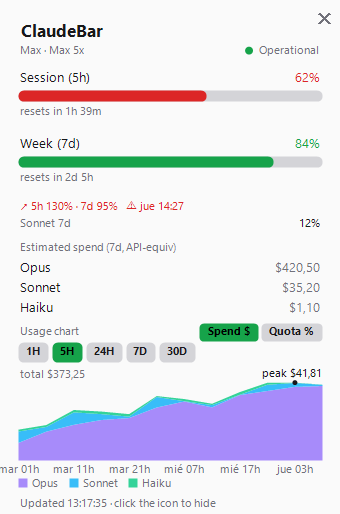
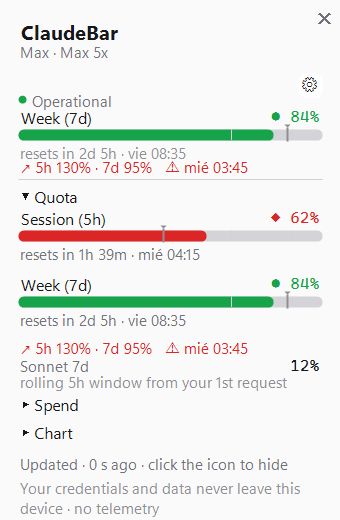
chore(assets): capturas + GIFs de microinteracciones (F3) para README/release
Nuevo modo `--render-gif` (como `--render-demo`, con datos sintéticos) que vuelca
secuencias de fotogramas numerados barriendo el RenderMotionOverride determinista por
la línea de tiempo de la animación; ffmpeg las monta en GIFs con paleta de calidad.

Assets en assets/:
- f3-apertura.gif     — fade + entrada escalonada + tween de barras/números (0→440 ms)
- f3-mascota.gif      — vida de la mascota Processing: spinner braille + parpadeo + verbo (loop 2.7 s)
- f3-hover.gif        — realce de hover apareciendo sobre la sección de Cuota
- f3-celebracion.gif  — destello "✓ quota renewed" + humor Happy
- dashboard-full.png  — panel completo con mascota grande + secciones desplegadas
- dashboard-{dark,light,cli}.png + tray-icons.png refrescados al diseño F3

diff --git a/Program.cs b/Program.cs
@@ -45,6 +45,13 @@ internal static class Program
             return;
         }
 
+        if (args.Contains("--render-gif"))
+        {
+            ApplicationConfiguration.Initialize();
+            RunRenderGif();
+            return;
+        }
+
         if (args.Contains("--notify-demo"))
         {
             ApplicationConfiguration.Initialize();
@@ -369,6 +376,141 @@ internal static class Program
         }
 
         Console.WriteLine(dir);
+    }
+
+    // ---- GIF frame sequences for the README microinteraction animations (F3) ----
+    // Like --render-demo (synthetic data, no personal usage) but instead of single PNGs it dumps
+    // NUMBERED frame sequences by sweeping the deterministic RenderMotionOverride across the animation
+    // timeline. ffmpeg then assembles each folder into a looping .gif (see build-gifs in the README).
+    //   apertura/  — panel open: fade + staggered section entry + bar/number tween, tSinceOpen 0→440 ms.
+    //   mascota/   — mascot life (Processing): braille spinner + blink jitter + playful verb, elapsed 0→2700 ms.
+    //   hover/     — hover highlight fading in over the Quota section, intensity 0→1.
+    //   celebracion/ — reset celebration flash ("✓ quota renewed") + Happy mood pulsing in.
+    // Frames go to %TEMP%\claudebar-gif\<seq>\frame_###.png; only the FINAL .gif belongs in assets/.
+    private static void RunRenderGif()
+    {
+        var root = Path.Combine(Path.GetTempPath(), "claudebar-gif");
+        var now = DateTime.UtcNow;
+        var snap = DemoSnapshot(now);
+        var buckets = DemoBuckets(now);
+        var pct = DemoPct(now);
+        var plan = new PlanInfo("max", "default_claude_max_5x");
+
+        // Config de marketing: tema oscuro, mascota grande viva, Spend+Chart desplegados (panel lleno).
+        AppConfig Cfg() => new()
+        {
+            Theme = "dark", ChartMode = "spend", ChartPctWindow = "7d", Language = "en",
+            ShowSpendEstimate = true, ShowHealth = true, ShowChart = true,
+            LiveSessionsEnabled = true, ShowMascot = true, MascotSize = "large",
+            CollapsedSpend = false, CollapsedChart = false,
+        };
+
+        var processing = new LiveSessionsView { GlobalPhase = SessionPhase.Processing, ActiveCount = 1 };
+
+        // Renderiza UN fotograma a PNG. Si fadeAlpha < 1, mezcla el contenido contra el fondo del tema
+        // para que el fade de apertura SE VEA (DrawToBitmap captura el contenido pero no el Opacity de la
+        // ventana en capas). devuelve el tamaño del panel para reusarlo entre fotogramas de la misma seq.
+        Size Shot(string seqDir, int idx, AppConfig cfg, DashboardForm.RenderMotionOverride mo,
+                  LiveSessionsView live, double fadeAlpha)
+        {
+            using var form = new DashboardForm();
+            form.PrepareForRender(snap, cfg, plan, buckets, pct, ChartRange.Hours5, mo, live);
+            int fw = form.Width, fh = form.Height;
+            using var content = new Bitmap(fw, fh);
+            form.DrawToBitmap(content, new Rectangle(0, 0, fw, fh));
+
+            var file = Path.Combine(seqDir, $"frame_{idx:000}.png");
+            if (fadeAlpha >= 0.999)
+            {
+                content.Save(file);
+            }
+            else
+            {
+                // Fade real: lienzo con el fondo del tema + el contenido a alfa = fadeAlpha encima.
+                using var canvas = new Bitmap(fw, fh);
+                using var g = Graphics.FromImage(canvas);
+                g.Clear(form.BackColor);
+                var cm = new System.Drawing.Imaging.ColorMatrix { Matrix33 = (float)Math.Clamp(fadeAlpha, 0, 1) };
+                using var ia = new System.Drawing.Imaging.ImageAttributes();
+                ia.SetColorMatrix(cm);
+                g.DrawImage(content, new Rectangle(0, 0, fw, fh), 0, 0, fw, fh, GraphicsUnit.Pixel, ia);
+                canvas.Save(file);
+            }
+            return new Size(fw, fh);
+        }
+
+        string Seq(string name)
+        {
+            var d = Path.Combine(root, name);
+            if (Directory.Exists(d)) Directory.Delete(d, true);
+            Directory.CreateDirectory(d);
+            return d;
+        }
+
+        // 1) APERTURA: fade (OutQuad sobre FadeMs) + stagger de secciones + tween de barras/números.
+        //    Barrido tSinceOpen 0→440 ms (cubre fade 120, tween 220 y el stagger de todas las secciones)
+        //    + unos fotogramas de "hold" en el estado asentado para que el loop respire antes de reabrir.
+        {
+            var dir = Seq("apertura");
+            int i = 0;
+            const double endMs = 440, stepMs = 20;
+            for (double t = 0; t <= endMs + 0.001; t += stepMs)
+            {
+                double fade = Motion.FadeMs <= 0 ? 1.0 : Easing.OutQuad(Math.Clamp(t / Motion.FadeMs, 0, 1));
+                Shot(dir, i++, Cfg(),
+                    new DashboardForm.RenderMotionOverride(TSinceOpenMs: t, MascotElapsedMs: t), processing, fade);
+            }
+            for (int h = 0; h < 12; h++) // hold asentado
+                Shot(dir, i++, Cfg(),
+                    new DashboardForm.RenderMotionOverride(TSinceOpenMs: endMs, MascotElapsedMs: endMs), processing, 1.0);
+            Console.WriteLine($"apertura: {i} frames -> {dir}");
+        }
+
+        // 2) MASCOTA: vida en Processing. tSinceOpen alto (panel asentado) y barrido de MascotElapsedMs
+        //    0→2700 ms = 3 ciclos completos del spinner (90 ms × 10 glifos) ⇒ LOOP perfecto del braille.
+        {
+            var dir = Seq("mascota");
+            int i = 0;
+            const double endMs = 2700, stepMs = 30; // 90 fotogramas, 30 ms/frame
+            for (double t = 0; t < endMs - 0.001; t += stepMs)
+                Shot(dir, i++, Cfg(),
+                    new DashboardForm.RenderMotionOverride(
+                        TSinceOpenMs: 4000, MascotElapsedMs: t, MascotMood: Mood.Focused), processing, 1.0);
+            Console.WriteLine($"mascota: {i} frames -> {dir}");
+        }
+
+        // 3) HOVER: realce de la sección de Cuota apareciendo. Barrido manual de la intensidad del
+        //    fade-in (OutQuad sobre FadeMs) reusando el override de hover: pasamos por una rampa de
+        //    fotogramas con la clave activa y, para el inicio "sin realce", la clave a null.
+        {
+            var dir = Seq("hover");
+            int i = 0;
+            // Antes del hover: panel asentado, sin realce.
+            for (int h = 0; h < 6; h++)
+                Shot(dir, i++, Cfg(),
+                    new DashboardForm.RenderMotionOverride(TSinceOpenMs: 4000, MascotElapsedMs: 4000), processing, 1.0);
+            // Hover ON (el override fuerza intensidad plena); mantenemos unos fotogramas para que se lea.
+            for (int h = 0; h < 18; h++)
+                Shot(dir, i++, Cfg(),
+                    new DashboardForm.RenderMotionOverride(
+                        TSinceOpenMs: 4000, HoveredKey: "sec:quota", MascotElapsedMs: 4000 + h * 30), processing, 1.0);
+            Console.WriteLine($"hover: {i} frames -> {dir}");
+        }
+
+        // 4) CELEBRACIÓN: destello "✓ cuota renovada" + humor Happy. Barrido corto de MascotElapsed para
+        //    que la mascota siga viva durante el destello; loop tras unos fotogramas de hold.
+        {
+            var dir = Seq("celebracion");
+            int i = 0;
+            for (int h = 0; h < 30; h++)
+                Shot(dir, i++, Cfg(),
+                    new DashboardForm.RenderMotionOverride(
+                        TSinceOpenMs: 4000, MascotElapsedMs: h * 30, MascotMood: Mood.Happy, Celebrating: true),
+                    processing, 1.0);
+            Console.WriteLine($"celebracion: {i} frames -> {dir}");
+        }
+
+        Console.WriteLine(root);
     }
 
     private static async Task RunRenderTest()

diff --git a/README.es.md b/README.es.md
@@ -23,11 +23,30 @@ Las barras de 5h/7d y sus valores se colorean por **ritmo** (pace), la gráfica 
 **Gasto $** (apilado por modelo) y **Cuota %** (utilización real en el tiempo), y el panel se
 auto-ajusta a las secciones que actives.
 
+Todo desplegado a la vez — la **mascota** de sesiones en vivo, las dos barras de cuota, el gasto por
+modelo y la gráfica de uso:
+
+<p align="center"><img src="assets/dashboard-full.png" alt="Dashboard completo con la mascota de sesiones en vivo" width="320"></p>
+
 **Arrástralo donde quieras y ajústale la opacidad** — el panel es un widget movible y semitransparente:
 
 <p align="center">
   <img src="assets/move.gif" alt="Arrastra el panel por la pantalla" width="380">
   <img src="assets/opacity.gif" alt="Opacidad ajustable" width="380">
+</p>
+
+**Microinteracciones** — el panel aparece con un fade y entrada escalonada, los números y las barras
+hacen tween hasta su valor, la mascota parpadea y gira su spinner mientras trabaja, las filas se
+realzan al pasar el cursor, y un reset de cuota recibe un pequeño destello (todo respeta el toggle de
+*reducir movimiento*):
+
+<p align="center">
+  <img src="assets/f3-apertura.gif" alt="Apertura del panel: fade, entrada escalonada, tween de números/barras" width="300">
+  <img src="assets/f3-mascota.gif" alt="Vida de la mascota: parpadeo, spinner braille, verbo juguetón" width="300">
+</p>
+<p align="center">
+  <img src="assets/f3-hover.gif" alt="Realce de hover apareciendo sobre una sección" width="300">
+  <img src="assets/f3-celebracion.gif" alt="Destello de celebración de reset de cuota" width="300">
 </p>
 
 Icono de bandeja, por estado / ritmo:
@@ -150,6 +169,7 @@ cd claudebar-win
 | `ClaudeBarWin.exe --report` | Vuelca la cuota + pace a consola/`%TEMP%` (sin GUI) |
 | `ClaudeBarWin.exe --render-test` | Renderiza el dashboard a `%TEMP%\claudebar-render` |
 | `ClaudeBarWin.exe --render-demo` | Renderiza las capturas del README (datos demo) |
+| `ClaudeBarWin.exe --render-gif` | Vuelca las secuencias de fotogramas de los GIF del README (datos demo) a `%TEMP%\claudebar-gif` |
 | `ClaudeBarWin.exe --db-test` | Prueba la base SQLite del histórico |
 | `ClaudeBarWin.exe --dump-menu` | Imprime la estructura del menú |
 

diff --git a/README.md b/README.md
@@ -23,11 +23,29 @@ The 5h/7d bars and their values are coloured by **pace** (burn-rate), the chart 
 **Spend $** (stacked by model) and **Quota %** (real utilisation over time), and the panel auto-sizes
 to whatever sections you enable.
 
+Everything expanded at once — the live-session **mascot**, both quota bars, per-model spend, and the
+usage chart:
+
+<p align="center"><img src="assets/dashboard-full.png" alt="Full dashboard with the live-session mascot" width="320"></p>
+
 **Drag it anywhere, dial in the opacity** — the panel is a movable, see-through widget:
 
 <p align="center">
   <img src="assets/move.gif" alt="Drag the panel anywhere on screen" width="380">
   <img src="assets/opacity.gif" alt="Adjustable window opacity" width="380">
+</p>
+
+**Microinteractions** — the panel fades and staggers in, numbers and bars tween to their targets, the
+mascot blinks and spins while it works, rows light up on hover, and a quota reset gets a little flash
+(all respect a *reduce motion* toggle):
+
+<p align="center">
+  <img src="assets/f3-apertura.gif" alt="Panel open: fade, staggered entry, number/bar tween" width="300">
+  <img src="assets/f3-mascota.gif" alt="Mascot life: blink, braille spinner, playful verb" width="300">
+</p>
+<p align="center">
+  <img src="assets/f3-hover.gif" alt="Hover highlight fading in over a section" width="300">
+  <img src="assets/f3-celebracion.gif" alt="Quota-reset celebration flash" width="300">
 </p>
 
 Tray icon, by status / pace:
@@ -152,6 +170,7 @@ cd claudebar-win
 | `ClaudeBarWin.exe --report` | Print current quota + pace to console/`%TEMP%` (no GUI) |
 | `ClaudeBarWin.exe --render-test` | Render the dashboard to `%TEMP%\claudebar-render` |
 | `ClaudeBarWin.exe --render-demo` | Render the README screenshots (synthetic data) |
+| `ClaudeBarWin.exe --render-gif` | Dump the README GIF frame sequences (synthetic data) to `%TEMP%\claudebar-gif` |
 | `ClaudeBarWin.exe --db-test` | Smoke-test the SQLite history store |
 | `ClaudeBarWin.exe --dump-menu` | Print the right-click menu structure |
 
